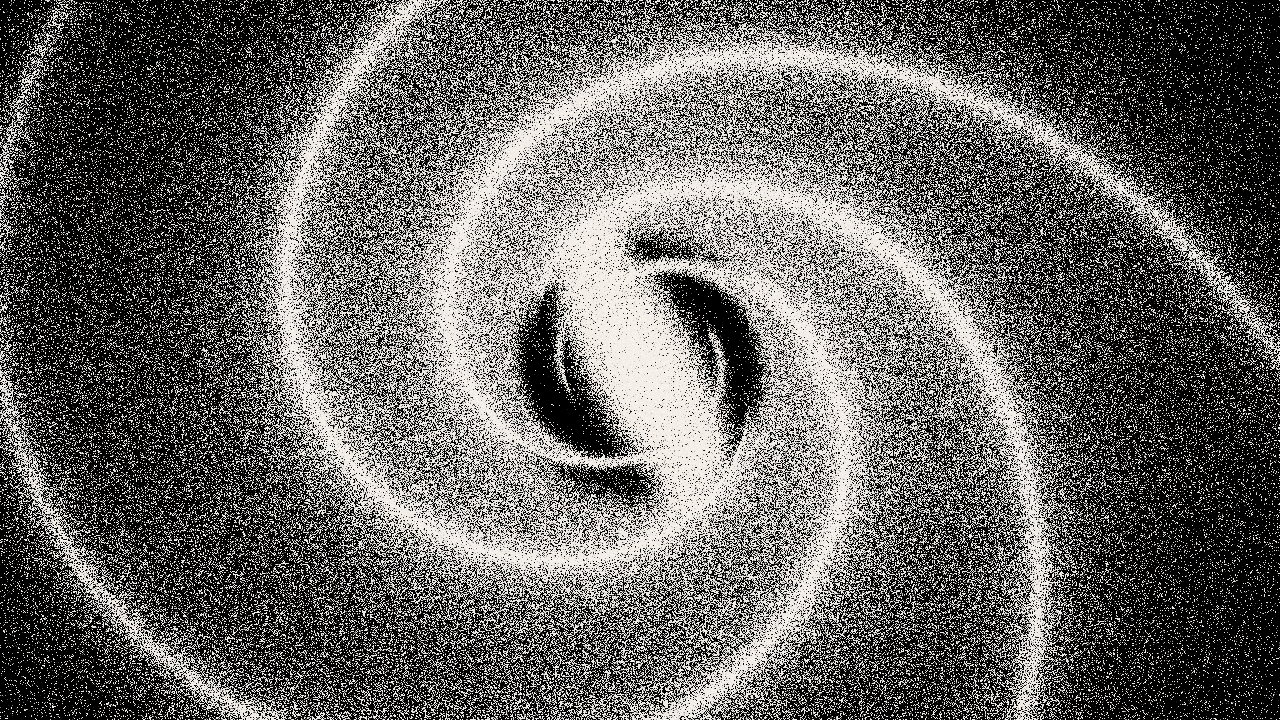
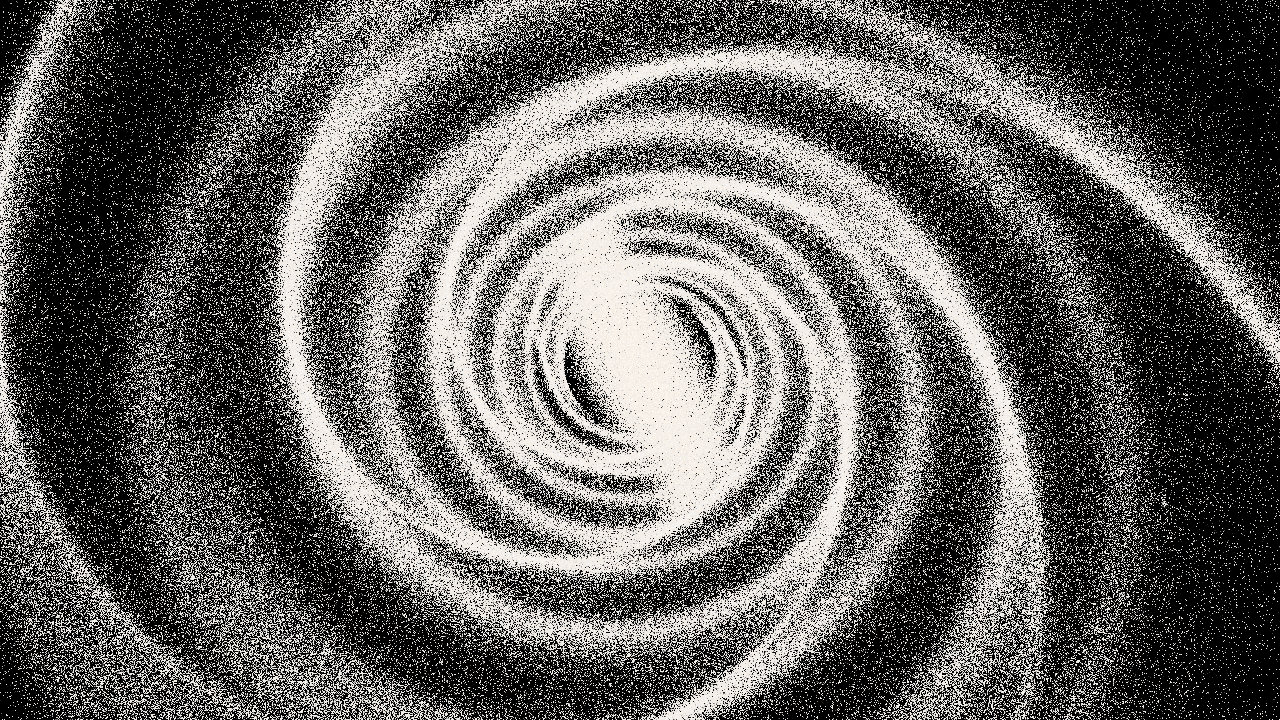
Complete realistic Milky Way astronomical simulation upgrades: two-tier clumpy arms, authentic bar dust lanes, volumetric H-II nebulae, Planckian colors, and dual-profile PSF

diff --git a/galactic_disk.py b/galactic_disk.py
@@ -60,55 +60,112 @@ class GalacticDisk:
             t = np.clip((x - e0) / (e1 - e0), 0.0, 1.0)
             return t * t * (3.0 - 2.0 * t)
 
-        # 1. Sample Radii for Disk Stars (smooth exponential/gamma distribution)
-        radius = rng.gamma(shape=2.0, scale=self.disk_scale, size=self.num_stars)
-        inv = (radius < self.inner_arm_radius) | (radius > self.outer_radius)
-        while np.any(inv):
-            radius[inv] = rng.gamma(shape=2.0, scale=self.disk_scale, size=np.sum(inv))
-            inv = (radius < self.inner_arm_radius) | (radius > self.outer_radius)
+        # ==========================================================
+        # 1. Dual-Component Stellar Disk (Structured Arms + Diffuse Disc)
+        # ==========================================================
+        # 68% Arm stars concentrated along the 4 spiral arms
+        # 32% Diffuse inter-arm background stars
+        n_arm = int(self.num_stars * 0.68)
+        n_diffuse = self.num_stars - n_arm
 
-        # 2. Guiding Center Azimuthal Distribution
-        # Uniform across [0, 2*pi) with smooth depletion along the bar minor axis inside r < 7.5
-        # (astrophysical inter-bar resonance cavity, keeping the 3D bar prominent)
-        theta = rng.uniform(0.0, 2.0 * math.pi, size=self.num_stars)
-        minor_axis_prox = np.abs(np.sin(theta - self.bar_angle_polar))
-        depletion = np.where(radius < 7.5, (1.0 - smoothstep_np(3.0, 7.5, radius)) * (0.88 * minor_axis_prox), 0.0)
-        rejected = rng.random(self.num_stars) < depletion
+        # --- A. Arm Population (Structured, Clumpy, Layered) ---
+        # Sample radii with exponential disc falloff
+        r_arm = rng.gamma(shape=2.2, scale=self.disk_scale, size=int(n_arm * 1.35))
+        r_arm = r_arm[(r_arm >= self.inner_arm_radius) & (r_arm <= self.outer_radius)]
+        # Outer disk soft fade: reject stars past 38 with probability smoothstep(38, 46)
+        fade_prob = 1.0 - smoothstep_np(38.0, 46.0, r_arm)
+        r_arm = r_arm[rng.random(len(r_arm)) < fade_prob][:n_arm]
+        while len(r_arm) < n_arm:
+            extra = rng.gamma(shape=2.2, scale=self.disk_scale, size=n_arm - len(r_arm))
+            extra = extra[(extra >= self.inner_arm_radius) & (extra <= self.outer_radius)]
+            fade = 1.0 - smoothstep_np(38.0, 46.0, extra)
+            r_arm = np.concatenate((r_arm, extra[rng.random(len(extra)) < fade]))
+        r_arm = r_arm[:n_arm]
 
+        # 4 Spiral arms with realistic astrophysical asymmetry:
+        # Arm 0 (Scutum-Centaurus, major): 31%
+        # Arm 1 (Sagittarius, minor): 20%
+        # Arm 2 (Perseus, major): 30%
+        # Arm 3 (Norma, minor): 19%
+        arm_indices = rng.choice(4, size=n_arm, p=[0.31, 0.20, 0.30, 0.19])
+        arm_base_angles = arm_indices * (2.0 * math.pi / 4.0)
+
+        # Logarithmic spiral spine
+        arm_spine_arm = self.arm_base_offset + self.spiral_tightness * np.log(r_arm / self.inner_arm_radius)
+        ideal_theta_arm = arm_base_angles + arm_spine_arm
+
+        # Along-arm density wave modulation (star-forming knots, clumps & gaps):
+        s_norm = (r_arm - self.inner_arm_radius) / (self.outer_radius - self.inner_arm_radius)
+        phi_arm = arm_indices * 1.5708
+        knot_offset = 0.15 * np.sin(2.0 * math.pi * 3.2 * s_norm + phi_arm) + 0.08 * np.sin(2.0 * math.pi * 6.5 * s_norm)
+
+        # Azimuthal Gaussian width: two-tier astrophysical arm structure
+        # Tier 1 (55%): dense star-forming spine, knots and bright clusters
+        # Tier 2 (45%): broad stellar envelope connecting smoothly into the disk
+        is_dense_spine = rng.random(n_arm) < 0.55
+        sigma_theta_dense = 0.11 + 0.08 * (r_arm / self.outer_radius)
+        sigma_theta_broad = 0.24 + 0.16 * (r_arm / self.outer_radius)
+        sigma_theta = np.where(is_dense_spine, sigma_theta_dense, sigma_theta_broad)
+
+        theta_arm = ideal_theta_arm + rng.normal(0.0, sigma_theta, size=n_arm) + np.where(is_dense_spine, knot_offset, knot_offset * 0.4)
+
+        # Arm thickness: young stars are in a very thin disk
+        thickness_arm = 0.12 + 0.14 * (r_arm / self.outer_radius)
+        y_arm = rng.normal(0.0, thickness_arm, size=n_arm)
+
+        # --- B. Diffuse Inter-Arm Population (Background Glow) ---
+        r_diff = rng.gamma(shape=2.0, scale=self.disk_scale, size=int(n_diffuse * 1.35))
+        r_diff = r_diff[(r_diff >= self.inner_arm_radius) & (r_diff <= self.outer_radius)]
+        fade_diff = 1.0 - smoothstep_np(38.0, 46.0, r_diff)
+        r_diff = r_diff[rng.random(len(r_diff)) < fade_diff][:n_diffuse]
+        while len(r_diff) < n_diffuse:
+            extra = rng.gamma(shape=2.0, scale=self.disk_scale, size=n_diffuse - len(r_diff))
+            extra = extra[(extra >= self.inner_arm_radius) & (extra <= self.outer_radius)]
+            fade = 1.0 - smoothstep_np(38.0, 46.0, extra)
+            r_diff = np.concatenate((r_diff, extra[rng.random(len(extra)) < fade]))
+        r_diff = r_diff[:n_diffuse]
+
+        theta_diff = rng.uniform(0.0, 2.0 * math.pi, size=n_diffuse)
+        
+        # Inter-bar resonance cavity depletion inside r < 7.5 to keep 3D bar prominent
+        minor_axis_prox = np.abs(np.sin(theta_diff - self.bar_angle_polar))
+        depletion = np.where(r_diff < 7.5, (1.0 - smoothstep_np(3.0, 7.5, r_diff)) * (0.85 * minor_axis_prox), 0.0)
+        rejected = rng.random(n_diffuse) < depletion
         attempts = 0
         while np.any(rejected) and attempts < 10:
             n_rej = np.sum(rejected)
-            new_r = rng.gamma(shape=2.0, scale=self.disk_scale, size=n_rej)
-            inv = (new_r < self.inner_arm_radius) | (new_r > self.outer_radius)
-            while np.any(inv):
-                new_r[inv] = rng.gamma(shape=2.0, scale=self.disk_scale, size=np.sum(inv))
-                inv = (new_r < self.inner_arm_radius) | (new_r > self.outer_radius)
             new_th = rng.uniform(0.0, 2.0 * math.pi, size=n_rej)
             new_prox = np.abs(np.sin(new_th - self.bar_angle_polar))
-            new_dep = np.where(new_r < 7.5, (1.0 - smoothstep_np(3.0, 7.5, new_r)) * (0.88 * new_prox), 0.0)
+            new_dep = np.where(r_diff[rejected] < 7.5, (1.0 - smoothstep_np(3.0, 7.5, r_diff[rejected])) * (0.85 * new_prox), 0.0)
             acc = rng.random(n_rej) >= new_dep
             if np.any(acc):
                 sub_indices = np.where(rejected)[0][acc]
-                radius[sub_indices] = new_r[acc]
-                theta[sub_indices] = new_th[acc]
-            curr_prox = np.abs(np.sin(theta - self.bar_angle_polar))
-            curr_dep = np.where(radius < 7.5, (1.0 - smoothstep_np(3.0, 7.5, radius)) * (0.88 * curr_prox), 0.0)
-            rejected = rng.random(self.num_stars) < curr_dep
+                theta_diff[sub_indices] = new_th[acc]
+            curr_prox = np.abs(np.sin(theta_diff - self.bar_angle_polar))
+            curr_dep = np.where(r_diff < 7.5, (1.0 - smoothstep_np(3.0, 7.5, r_diff)) * (0.85 * curr_prox), 0.0)
+            rejected = rng.random(n_diffuse) < curr_dep
             attempts += 1
 
-        # 3. 3D Spatial Distribution
+        # Diffuse disk thickness: thicker older population with radial flare
+        thickness_diff = 0.25 + 0.30 * (r_diff / self.outer_radius)
+        y_diff = rng.normal(0.0, thickness_diff, size=n_diffuse)
+
+        # Combine components
+        radius = np.concatenate((r_arm, r_diff)).astype('f4')
+        theta = np.concatenate((theta_arm, theta_diff)).astype('f4')
+        y = np.concatenate((y_arm, y_diff)).astype('f4')
+
         x = radius * np.cos(theta)
         z = radius * np.sin(theta)
-        thickness_scale = 0.2 + 0.3 * np.exp(-radius / 10.0)
-        y = rng.normal(0.0, 1.0, self.num_stars) * thickness_scale
-
         positions = np.column_stack((x, y, z)).astype('f4')
 
         # 4. Continuous Arm-Proximity & Astrophysical Stellar Population
-        arm_spine = self.arm_base_offset + self.spiral_tightness * np.log(radius / self.inner_arm_radius)
-        psi = 4.0 * (theta - arm_spine)
+        arm_spine_total = self.arm_base_offset + self.spiral_tightness * np.log(radius / self.inner_arm_radius)
+        psi = 4.0 * (theta - arm_spine_total)
         psi_wrap = (psi + math.pi) % (2.0 * math.pi) - math.pi
         arm_factor = 0.5 + 0.5 * np.cos(psi_wrap)
+        is_arm_star = np.arange(self.num_stars) < n_arm
+        arm_factor = np.where(is_arm_star, np.clip(arm_factor * 1.25, 0.0, 1.0), arm_factor * 0.45)
 
         from stellar_population import generate_stellar_population
         colors, sizes, brightness = generate_stellar_population(

diff --git a/nebula.py b/nebula.py
@@ -1,7 +1,7 @@
 import numpy as np
 
 class NebulaManager:
-    def __init__(self, num_nebulae=100, seed=1337, diagnostic_mode=False):
+    def __init__(self, num_nebulae=60, seed=1337, diagnostic_mode=False):
         self.num_nebulae = num_nebulae
         self.seed = seed
         self.diagnostic_mode = diagnostic_mode
@@ -10,10 +10,11 @@ class NebulaManager:
         self.nebulae_data = [] # List of dicts for shader uniforms
         self.stars_data = []   # List of stars to add to galactic disk
         
-        # Spiral Parameters (must match galactic_disk.py)
+        # Spiral Parameters (must match galactic_disk.py exactly)
         ARM_COUNT = 4
         SPIRAL_TIGHTNESS = 2.5
-        INNER_RADIUS = 2.0
+        INNER_RADIUS = 3.5
+        ARM_BASE_OFFSET = (np.pi / 2.0 - 0.488) - 2.5 * np.log(7.0 / 3.5)
         
         # We want nebulae mostly in the active star-forming ring
         MIN_R = 6.0
@@ -21,14 +22,14 @@ class NebulaManager:
         
         # Emission colors (Realistic Astrophotography H-II palette)
         # H-alpha (656 nm, deep red) + H-beta (486 nm, blue-cyan) + O-III (500 nm, teal)
-        color_hii_crimson = np.array([0.95, 0.05, 0.15]) # Pure deep H-alpha red
-        color_hii_magenta = np.array([1.00, 0.15, 0.35]) # Standard H-II magenta/pink
-        color_hii_salmon  = np.array([1.00, 0.30, 0.40]) # Warmer pink
-        color_hii_pale    = np.array([1.00, 0.45, 0.55]) # Pale pink (mixed with O-III)
+        color_hii_crimson = np.array([0.92, 0.06, 0.16]) # Pure deep H-alpha red
+        color_hii_magenta = np.array([0.96, 0.16, 0.36]) # Standard H-II magenta/pink
+        color_hii_salmon  = np.array([0.98, 0.28, 0.38]) # Warmer pink
+        color_hii_pale    = np.array([1.00, 0.42, 0.52]) # Pale pink (mixed with O-III)
         
         # Blue/white for reflection nebulae (dust scattering hot young star light)
-        color_ref_bright = np.array([0.4, 0.7, 1.0])
-        color_ref_dusty  = np.array([0.2, 0.4, 0.8])
+        color_ref_bright = np.array([0.35, 0.68, 1.0])
+        color_ref_dusty  = np.array([0.22, 0.42, 0.82])
         
         for i in range(num_nebulae):
             # 1. Position along spiral arms
@@ -36,12 +37,12 @@ class NebulaManager:
             r = rng.gamma(shape=4.0, scale=4.0) + MIN_R
             r = np.clip(r, MIN_R, MAX_R)
             
-            # Select arm
-            arm_index = rng.integers(0, ARM_COUNT)
+            # Select arm with realistic asymmetry
+            arm_index = rng.choice([0, 1, 2, 3], p=[0.32, 0.18, 0.32, 0.18])
             arm_base_angle = arm_index * (2 * np.pi / ARM_COUNT)
             
-            # Ideal log spiral angle
-            ideal_theta = arm_base_angle + SPIRAL_TIGHTNESS * np.log(r / INNER_RADIUS)
+            # Ideal log spiral angle (aligned directly with the stellar arms)
+            ideal_theta = arm_base_angle + ARM_BASE_OFFSET + SPIRAL_TIGHTNESS * np.log(r / INNER_RADIUS)
             
             # Slight offset inside/outside the arm
             theta_offset = rng.normal(0.0, 0.15)
@@ -52,19 +53,19 @@ class NebulaManager:
             z = r * np.sin(theta)
             
             # Nebulae are very close to the galactic plane (thin disk)
-            y = rng.normal(0.0, 0.1)
+            y = rng.normal(0.0, 0.08)
             
-            # 2. Size and Type
+            # 2. Size and Type (Astrophysical H-II complexes: 100 - 350 pc)
             size_roll = rng.random()
-            if size_roll < 0.1: # 10% hero regions
-                radius = rng.uniform(3.0, 5.0)
-                density = rng.uniform(1.0, 1.5)
-            elif size_roll < 0.3: # 20% medium regions
-                radius = rng.uniform(1.5, 3.0)
-                density = rng.uniform(0.7, 1.1)
-            else: # 70% small faint regions
-                radius = rng.uniform(0.6, 1.5)
-                density = rng.uniform(0.4, 0.7)
+            if size_roll < 0.10: # ~6 hero complexes (like 30 Doradus, NGC 604)
+                radius = rng.uniform(0.65, 0.95)
+                density = rng.uniform(1.0, 1.4)
+            elif size_roll < 0.35: # ~15 medium star-forming complexes
+                radius = rng.uniform(0.38, 0.65)
+                density = rng.uniform(0.8, 1.1)
+            else: # ~39 small localized H-II knots
+                radius = rng.uniform(0.20, 0.38)
+                density = rng.uniform(0.6, 0.9)
                 
             # Reflection fraction (minority are blue)
             ref_roll = rng.random()

diff --git a/main.py b/main.py
@@ -256,11 +256,14 @@ class MilkyWaySimulation(mglw.WindowConfig):
         neb_pos, neb_col = self.nebula_mgr.get_shader_uniforms()
         if "u_numNebulae" in self.nebula_program:
             self.nebula_program["u_numNebulae"].value = self.nebula_mgr.num_nebulae
-        for i in range(150):
-            if f"u_nebulae_pos[{i}]" in self.nebula_program:
-                self.nebula_program[f"u_nebulae_pos[{i}]"].value = tuple(neb_pos[i*4:i*4+4])
-            if f"u_nebulae_col[{i}]" in self.nebula_program:
-                self.nebula_program[f"u_nebulae_col[{i}]"].value = tuple(neb_col[i*4:i*4+4])
+        pos_data = np.zeros(150 * 4, dtype="f4")
+        col_data = np.zeros(150 * 4, dtype="f4")
+        pos_data[:len(neb_pos)] = neb_pos
+        col_data[:len(neb_col)] = neb_col
+        if "u_nebulae_pos" in self.nebula_program:
+            self.nebula_program["u_nebulae_pos"].write(pos_data.tobytes())
+        if "u_nebulae_col" in self.nebula_program:
+            self.nebula_program["u_nebulae_col"].write(col_data.tobytes())
 
 
         self.renderer = Renderer(
@@ -904,8 +907,8 @@ class MilkyWaySimulation(mglw.WindowConfig):
         self.ctx.disable(self.ctx.BLEND)
         self.comp_tex.use(location=0)
         self.extract_program["u_image"].value = 0
-        self.extract_program["u_threshold"].value = 0.45
-        self.extract_program["u_knee"].value = 0.30
+        self.extract_program["u_threshold"].value = 0.28
+        self.extract_program["u_knee"].value = 0.22
         self.extract_vao.render(mode=self.ctx.TRIANGLE_STRIP)
 
         # 2.2: Tight Bloom Blur (half res)
@@ -968,10 +971,10 @@ class MilkyWaySimulation(mglw.WindowConfig):
         self.post_program["u_scene"].value = 0
         self.post_program["u_bloomTight"].value = 1
         self.post_program["u_bloomBroad"].value = 2
-        self.post_program["u_exposure"].value = 1.10
-        self.post_program["u_bloomTightIntensity"].value = 0.65
-        self.post_program["u_bloomBroadIntensity"].value = 0.45
-        self.post_program["u_dustProtection"].value = 0.85
+        self.post_program["u_exposure"].value = 1.15
+        self.post_program["u_bloomTightIntensity"].value = 0.60
+        self.post_program["u_bloomBroadIntensity"].value = 0.40
+        self.post_program["u_dustProtection"].value = 0.88
         if "u_debugPost" in self.post_program:
             self.post_program["u_debugPost"].value = self.debug_post_mode
 

diff --git a/test_full_astro.py b/test_full_astro.py
@@ -122,11 +122,14 @@ def test_full():
     neb_pos, neb_col = nebula_mgr.get_shader_uniforms()
     if "u_numNebulae" in nebula_prog:
         nebula_prog["u_numNebulae"].value = nebula_mgr.num_nebulae
-    for i in range(150):
-        if f"u_nebulae_pos[{i}]" in nebula_prog:
-            nebula_prog[f"u_nebulae_pos[{i}]"].value = tuple(neb_pos[i*4:i*4+4])
-        if f"u_nebulae_col[{i}]" in nebula_prog:
-            nebula_prog[f"u_nebulae_col[{i}]"].value = tuple(neb_col[i*4:i*4+4])
+    pos_data = np.zeros(150 * 4, dtype="f4")
+    col_data = np.zeros(150 * 4, dtype="f4")
+    pos_data[:len(neb_pos)] = neb_pos
+    col_data[:len(neb_col)] = neb_col
+    if "u_nebulae_pos" in nebula_prog:
+        nebula_prog["u_nebulae_pos"].write(pos_data.tobytes())
+    if "u_nebulae_col" in nebula_prog:
+        nebula_prog["u_nebulae_col"].write(col_data.tobytes())
             
     out_dir = base_dir / "test_renders"
     out_dir.mkdir(exist_ok=True)
@@ -220,8 +223,8 @@ def test_full():
         ctx.clear(0.0, 0.0, 0.0, 1.0)
         comp_tex.use(location=0)
         extract_prog["u_image"].value = 0
-        extract_prog["u_threshold"].value = 0.45
-        extract_prog["u_knee"].value = 0.30
+        extract_prog["u_threshold"].value = 0.28
+        extract_prog["u_knee"].value = 0.22
         extract_vao.render(mode=ctx.TRIANGLE_STRIP)
         
         # 6. Tight Bloom Blur
@@ -275,10 +278,10 @@ def test_full():
         post_prog["u_scene"].value = 0
         post_prog["u_bloomTight"].value = 1
         post_prog["u_bloomBroad"].value = 2
-        post_prog["u_exposure"].value = 1.10
-        post_prog["u_bloomTightIntensity"].value = 0.65
-        post_prog["u_bloomBroadIntensity"].value = 0.45
-        post_prog["u_dustProtection"].value = 0.85
+        post_prog["u_exposure"].value = 1.15
+        post_prog["u_bloomTightIntensity"].value = 0.60
+        post_prog["u_bloomBroadIntensity"].value = 0.40
+        post_prog["u_dustProtection"].value = 0.88
         post_prog["u_debugPost"].value = 0
         post_vao.render(mode=ctx.TRIANGLE_STRIP)
         

diff --git a/stellar_population.py b/stellar_population.py
@@ -231,7 +231,7 @@ def generate_stellar_population(
     if diagnostic_mode:
         colors = DIAGNOSTIC_COLORS[classes]
     else:
-        colors = temperature_to_rgb(temps, desat=0.18)
+        colors = temperature_to_rgb(temps, desat=0.04)
         # Subtle per-star chromatic variance prevents sterile uniformity
         color_noise = rng.normal(0.0, 0.015, (num_stars, 3)).astype(np.float32)
         colors = np.clip(colors + color_noise, 0.0, 1.0)
